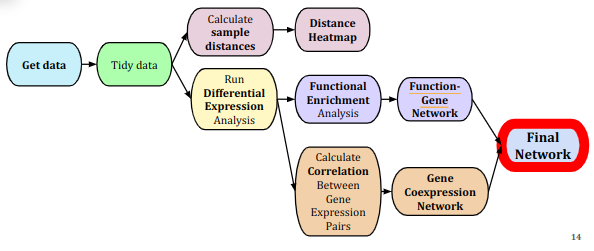
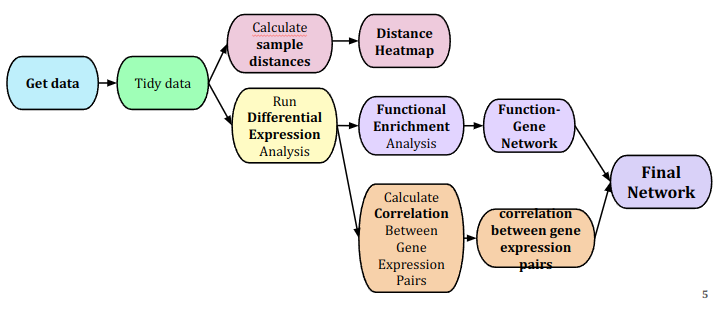
Update project 2 description.

diff --git a/project-2/README.md b/project-2/README.md
@@ -51,9 +51,15 @@ Gene Ontology | https://geneontology.org/ | Maior fonte de informações do mund
 > ![Modelo Lógico de Grafos](assets/images/logical_model.png)
 
 # Metodologia
-Para analisar a expressão gênica diferencial, utilizaremos métodos estatísticos do DESeq2. Esta ferramenta permite modelar a contagem de leituras usando uma distribuição negativa binomial e realiza testes de hipótese para determinar genes com expressão significativamente diferente entre as condições.
+Para analisar a expressão gênica diferencial, utilizamos métodos estatísticos do DESeq2. Esta ferramenta permite modelar a contagem de leituras usando uma distribuição negativa binomial e realiza testes de hipótese para determinar genes com expressão significativamente diferente entre as condições.
 
-Com os genes diferencialmente expressos identificados, criaremos uma rede de interações. Esta rede permitirá visualizar e analisar as relações entre os genes, bem como suas funções biológicas associadas. Ao integrar a rede com informações de anotação funcional, como a *Gene Ontology*, será possível relacionar os genes com as suas respectivas funções biológicas e vias de sinalização que estão envolvidas, resultando em uma **análise de enriquencimento funcional**.
+Com os genes diferencialmente expressos identificados, criamos uma rede de interações. Esta rede permite visualizar e analisar as relações entre os genes, bem como suas funções biológicas associadas. Ao integrar a rede com informações de anotação funcional, do *Gene Ontology*, foi possível relacionar os genes com as suas respectivas funções biológicas e vias de sinalização que estão envolvidas, resultando em uma **análise de enriquencimento funcional**:
+
+> ![Modelo Lógico de Grafos](assets/images/functional_network.png)
+
+Utilizamos a Correlação de Pearson nos genes diferencialmente expressos, para criar relações (arestas) entre genes, e filtramos as aretas em que a correlação é maior (p \< 0.05 e statistic \> 0.85):
+
+> ![Modelo Lógico de Grafos](assets/images/pearson_corr_network.png)
 
 Utilizando outras técnicas de ciência de redes, será possível explorar ainda mais a organização e a dinâmica dos genes na rede. A **análise de centralidade** possibilitará a identificação de genes centrais (“hubs”) que desempenham papéis importantes no funcionamento da epilepsia, sendo potenciais alvos para tratamento. A **detecção de comunidades** revelará grupos de genes que interagem entre si de forma mais intensa que com outros, identificando módulos desregulados que podem estar associados à epilepsia e fornecendo informações sobre as funções biológicas destes módulos.
 
@@ -65,11 +71,41 @@ Estamos em estudo para possivelmente também usarmos:
 
 - Realizar análises de enriquecimento considerando caminhos específicos da doença, como mTORpatias em epilepsias.
 
+# Integração entre Bases
+A integração das bases de dados foi feita utilizando a biblioteca Pandas do Python, em que as informações foram filtradas e organizadas em tabelas de arestas e de nós. Nessa etapa, não houveram dificuldades. 
+
+# Análise Preliminar
+Detectamos as principais comunidades da nossa rede utilizando o algoritmo *greedy modularity communities* do NetworkX, detectando 6 comunidades: 
+
+> ![Modelo Lógico de Grafos](assets/images/all_communities.png)
+
+Filtramos apenas os nós de grau maior que 70, restando 3 comunidades:
+
+> ![Modelo Lógico de Grafos](assets/images/communities_filtered.png)
+
+Além disso, filtramos os genes de maior grau de cada comunidade:
+
+> ![Modelo Lógico de Grafos](assets/images/genes_table.png)
+
+# Evolução do Projeto
+
+Nessa entrega realizamos a extração e pós processamento dos dados para geração da rede final. Os passos para geração da rede final, que foram descritos na sessão de metodologia e de base de dados, estão na imagem a seguir:
+
+> ![Modelo Lógico de Grafos](assets/images/workflow.png)
+
+A rede final, gerada através do NetworkX:
+
+> ![Modelo Lógico de Grafos](assets/images/final_network.png)
+
+Tivemos dificuldade com a leitura das nossas tabelas, pelo Cytoscape. Não conseguimos integrar as 4 tabelas (2 tabelas de arestas, e 2 tabelas de nós). Para os próximos projetos, vamos tentar novamente a integração para melhor vizualização. 
+
 # Ferramentas
 
-Neste trabalho, utilizaremos as seguintes ferramentas:
+Neste trabalho, utilizamos as seguintes ferramentas:
 1. **Testes de expressão diferencial (DESeq2)**, para obtenção de genes diferencialmente expressos entre a doença e controles;
 2. **Cytoscape**, para geração de rede de genes diferencialmente expressos e da rede de funções biológicas. Também será utilizado para análises utilizando técnicas de ciência de redes.
+3. **Pandas**: biblioteca do Python utilizada para processamento das tabelas.
+3. **NetworkX**: biblioteca do Python utilizada para filtrar e analisar rede. 
 
 
 # Referências Bibliográficas
